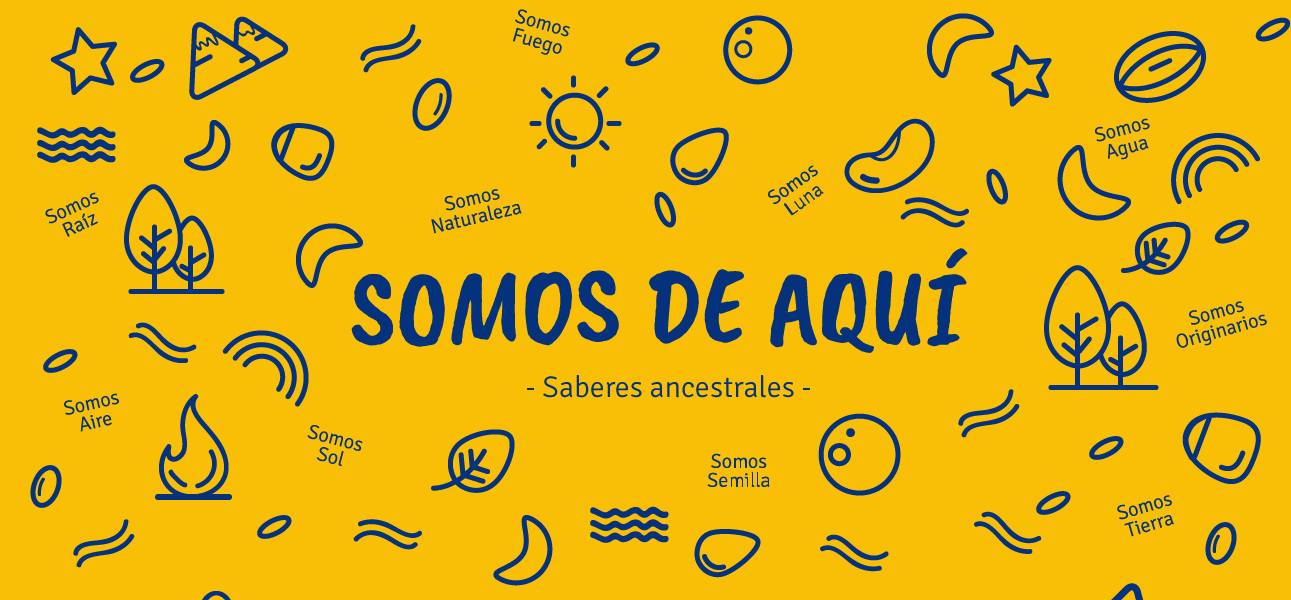
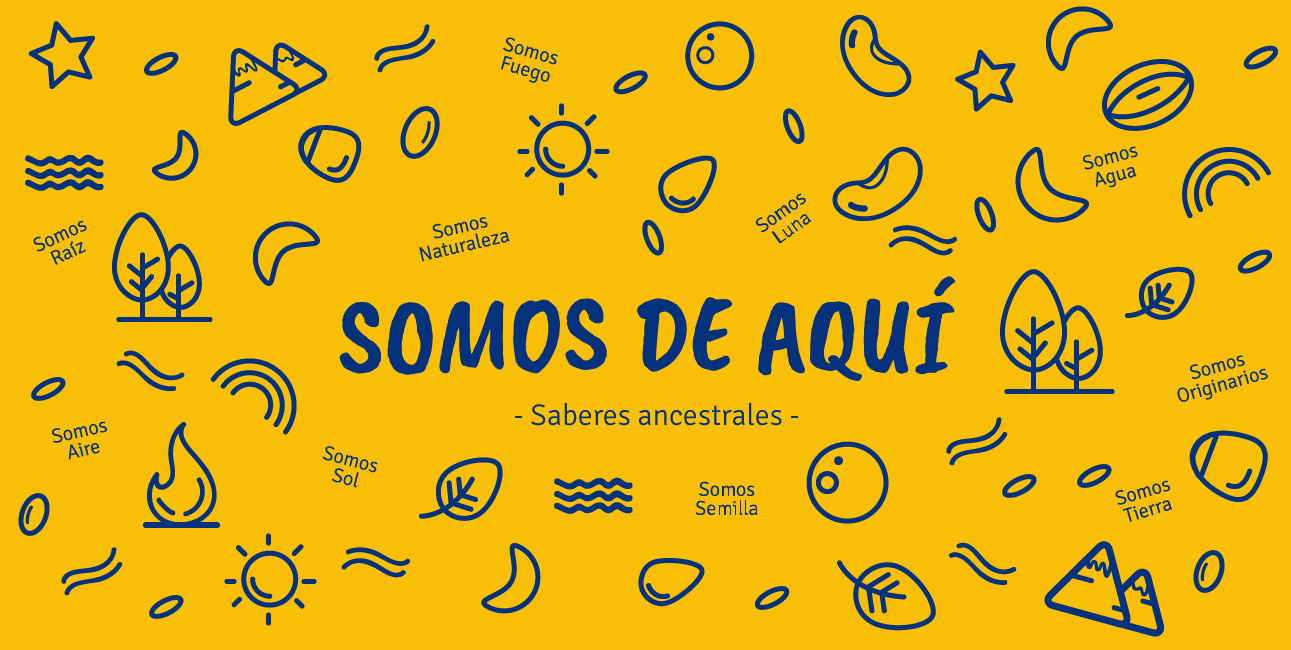
Updated content

diff --git a/assets/css/main.css b/assets/css/main.css
@@ -2968,7 +2968,7 @@
 		background-repeat: no-repeat;
 		text-align: center;
 		border-top: 0.5em solid #5385c1;
-		height: 590px;
+		height: 650px;
 	}
 
 		#banner h1 {
